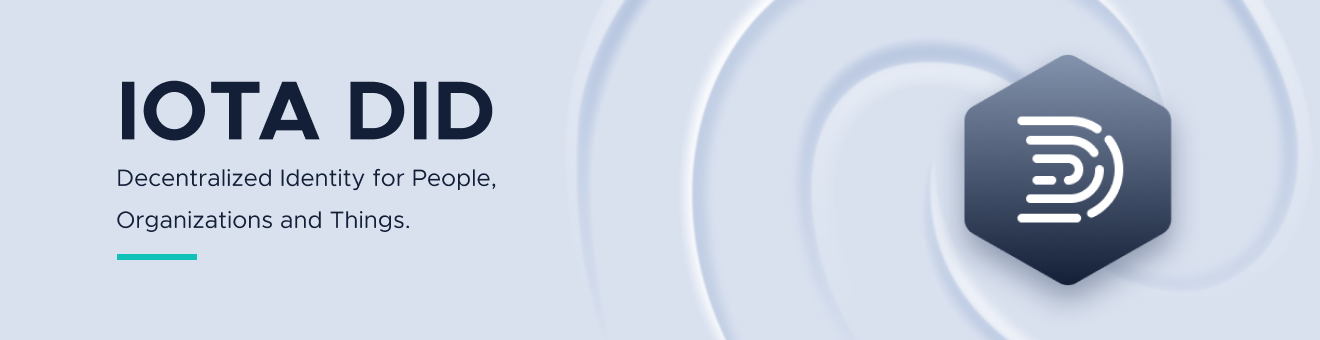
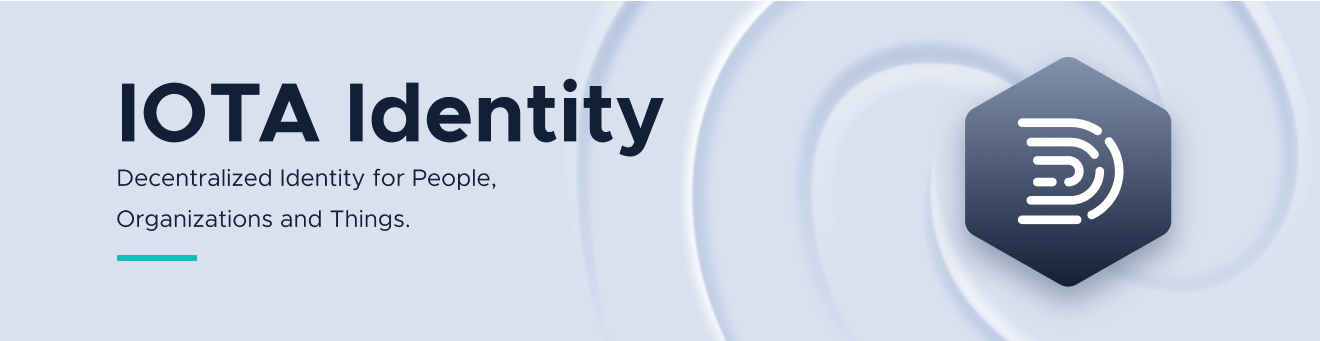
Update readme with Chrysalis Phase 2 warning (#191)
* Update readme with Chrysalis Phase 2 warning

* Correct Banner

* Improved Banner pixels

* Better formatting

diff --git a/README.md b/README.md
@@ -26,7 +26,11 @@ IOTA Identity is a [Rust](https://www.rust-lang.org/) implementation of decentra
 
 The individual libraries are developed to be agnostic about the utilized [Distributed Ledger Technology (DLT)](https://en.wikipedia.org/wiki/Distributed_ledger), with the exception of the [IOTA](https://www.iota.org) integration and higher level libraries. Written in stable Rust, it has strong guarantees of memory safety and process integrity while maintaining exceptional performance.
 
-> :warning: **WARNING** :warning:
+> :warning: **WARNING #1** :warning: 
+>
+> **The Framework only works on the Chrysalis Phase 2 network, use [v0.2](https://github.com/iotaledger/identity.rs/releases/tag/v0.2.0) or older for pre-chrysalis phase 2 networks.**
+> 
+> :warning: **WARNING #2** :warning:
 > 
 > This library is currently in its **alpha stage** and **under development** and might undergo large changes!
 > Until a formal third-party security audit has taken place, the [IOTA Foundation](https://www.iota.org/) makes no guarantees to the fitness of this library. As such, it is to be seen as **experimental** and not ready for real-world applications.
